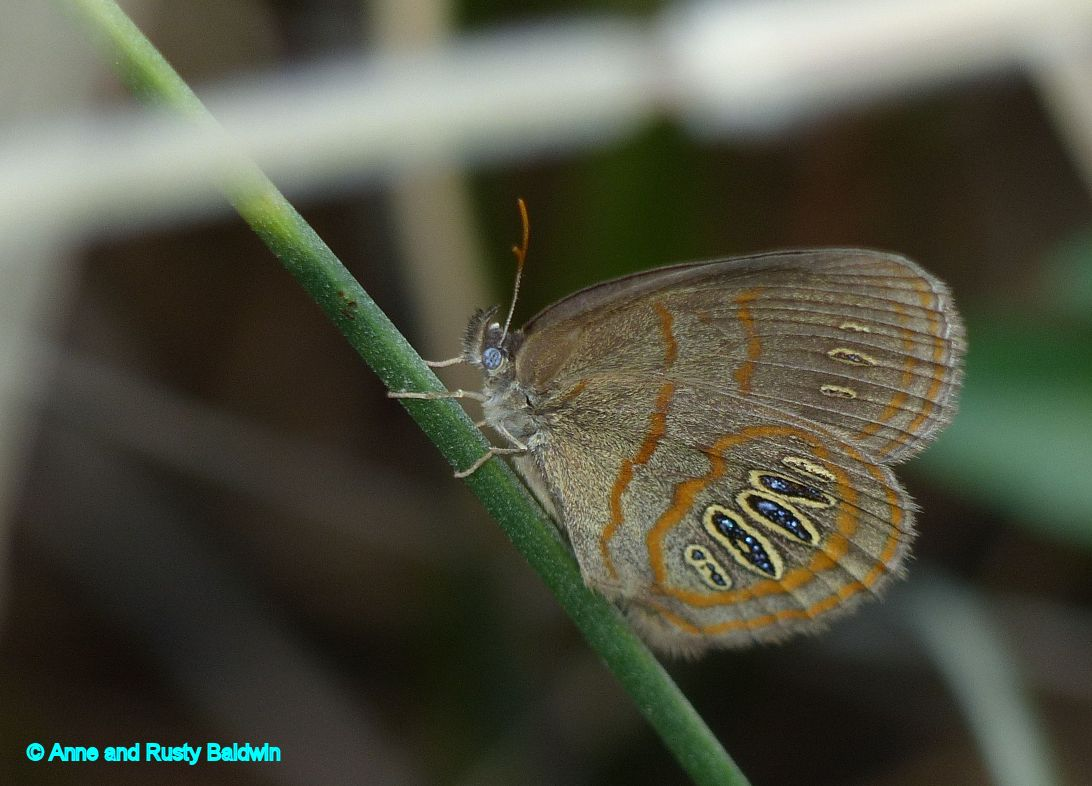
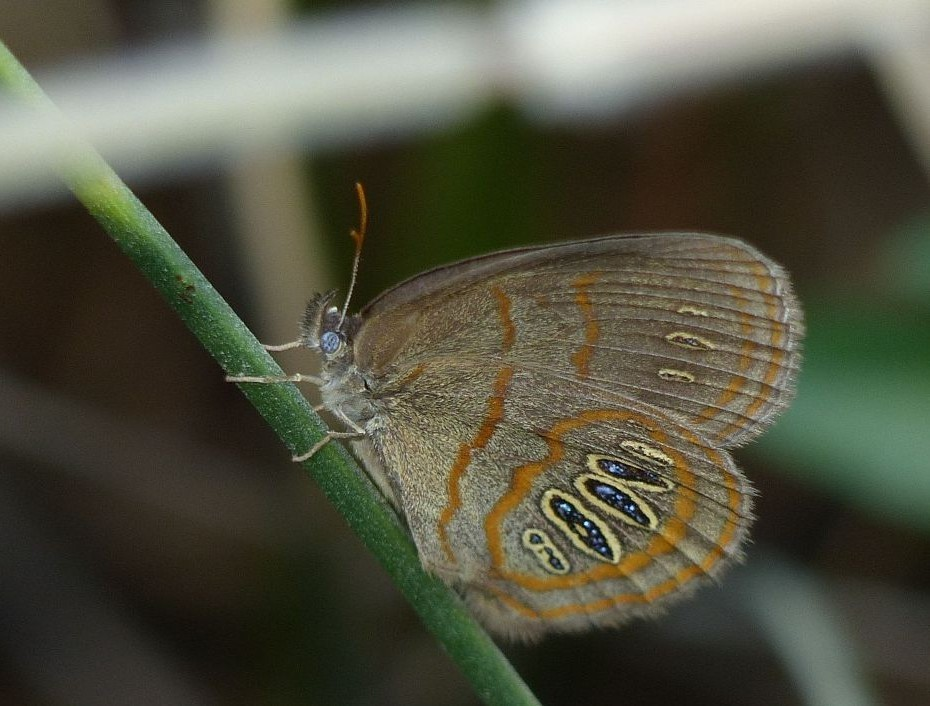
cropped borders/rulers

diff --git a/README.md b/README.md
@@ -8,4 +8,5 @@ Major commits:
 1. 2019-09-19: Using `pytorch` and `fastai` now. Have data sets arranged and categorized. Got the data imported and a `resnet34` model working.
 1. 2019-09-20: Fixed the driver issue, purrs like a kitten now. The 4% error model mistakes Nar for Nhe and vice versa. That is awesome.
 1. 2019-09-23: Ran the `resnet50` model and got error to 2.5%. Both `34` and `50` only confuse * Neonympha areolata* and *N. helicta*. Started branch `google_images`, added images from net and personal collection
-1. 2019-09-24: Further refining the models, tweaking image size and validation set size. Added a bash script to launch the `docker` image. 
+1. 2019-09-24: Further refining the models, tweaking image size and validation set size. Added a bash script to launch the `docker` image.
+1. 2019-09-25: Cropped some images to remove borders and ruler edges (which were present at higher frequencies in *N. helicta* images).

diff --git a/misc/notes.md b/misc/notes.md
@@ -28,3 +28,5 @@ This will run the `docker` image and point the volume to the repo:
   Saved output as `Nfr_photos.txt`
   - "Neonympha mitchellii mitchellii"  -areolata -helicta -francisci - Saved output as `Nmi_photos.txt`
   - "Neonympha helicta"  -areolata -mitchellii -francisci - Saved output as `Nhe_photos.txt`
+
+- 2019-09-25: Should consider reaching out to people for more images to test. Or, maybe this is better, make an app people can check photos on. 
